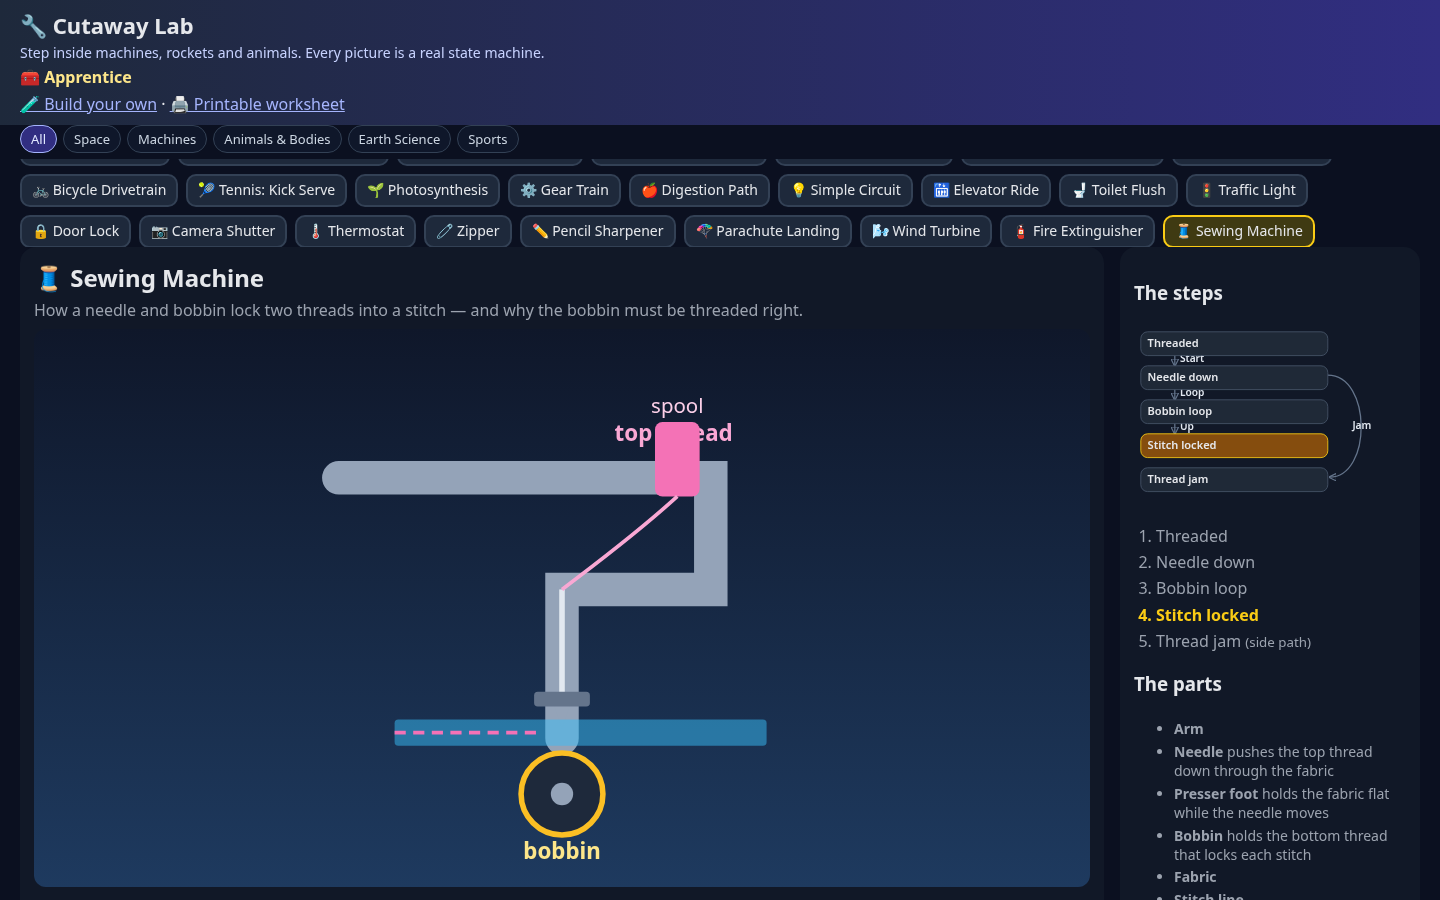
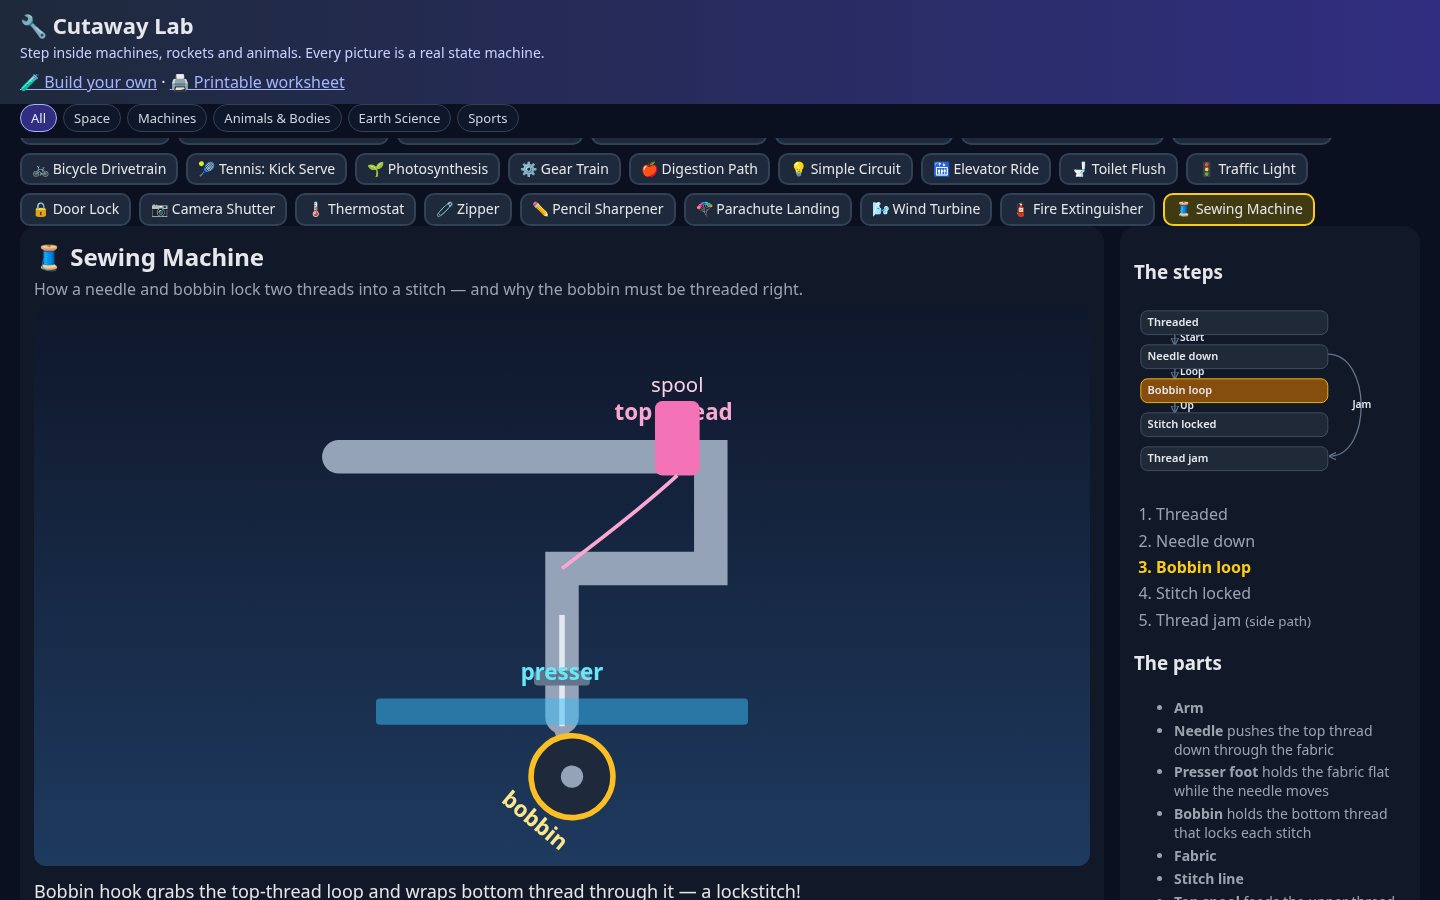
v1.0: parachute canopy/jumper spacing; sewing presser caption

Changed region(s): [[0.0, 0.0622, 1.0, 1.0], [0.0, 0.7156, 0.7812, 1.0], [0.2188, 0.4044, 0.5312, 0.6844]]

diff --git a/machines/parachute.js b/machines/parachute.js
@@ -8,9 +8,9 @@ export default {
     { id: 'canopy', label: 'Canopy', job: 'catches air so the fall slows down',
       svg: '<path d="M100 80 Q200 20 300 80 L280 100 Q200 70 120 100Z" fill="#f87171" stroke="#fecaca" stroke-width="2"/>', pose: { opacity: 0.2, scale: 0.3, y: 40 }, explode: [0, -40] },
     { id: 'lblCanopy', label: 'Canopy label',
-      svg: '<text x="200" y="55" text-anchor="middle" fill="#fecaca" font-size="13" font-weight="700">canopy</text>', pose: { opacity: 0 } },
+      svg: '<text x="200" y="40" text-anchor="middle" fill="#fecaca" font-size="13" font-weight="700">canopy</text>', pose: { opacity: 0 } },
     { id: 'lblJumper', label: 'Jumper label',
-      svg: '<text x="200" y="250" text-anchor="middle" fill="#fde68a" font-size="13" font-weight="700">jumper</text>' },
+      svg: '<text x="200" y="270" text-anchor="middle" fill="#fde68a" font-size="13" font-weight="700">jumper</text>' },
     { id: 'lines', label: 'Suspension lines', job: 'connect the canopy to the harness',
       svg: '<g stroke="#e2e8f0" stroke-width="2"><path d="M120 100 L180 200"/><path d="M160 95 L190 200"/><path d="M240 95 L210 200"/><path d="M280 100 L220 200"/></g>', pose: { opacity: 0 }, explode: [40, 0] },
     { id: 'harness', label: 'Harness', job: 'holds the person under the canopy',

diff --git a/machines/sewing.js b/machines/sewing.js
@@ -11,6 +11,8 @@ export default {
       svg: '<text x="260" y="60" text-anchor="middle" fill="#f9a8d4" font-size="12" font-weight="700">top thread</text>' },
     { id: 'presser', label: 'Presser foot', job: 'holds the fabric flat while the needle moves',
       svg: '<rect x="185" y="195" width="30" height="8" rx="2" fill="#64748b"/>', explode: [40, 0] },
+    { id: 'lblPresser', label: 'Presser label',
+      svg: '<text x="200" y="200" text-anchor="middle" fill="#67e8f9" font-size="12" font-weight="700">presser</text>' },
     { id: 'bobbin', label: 'Bobbin', job: 'holds the bottom thread that locks each stitch',
       svg: '<circle cx="200" cy="250" r="22" fill="#1e293b" stroke="#fbbf24" stroke-width="3"/><circle cx="200" cy="250" r="6" fill="#94a3b8"/><text x="200" y="285" text-anchor="middle" fill="#fde68a" font-size="12" font-weight="700">bobbin</text>', explode: [0, 40] },
     { id: 'fabric', label: 'Fabric',
